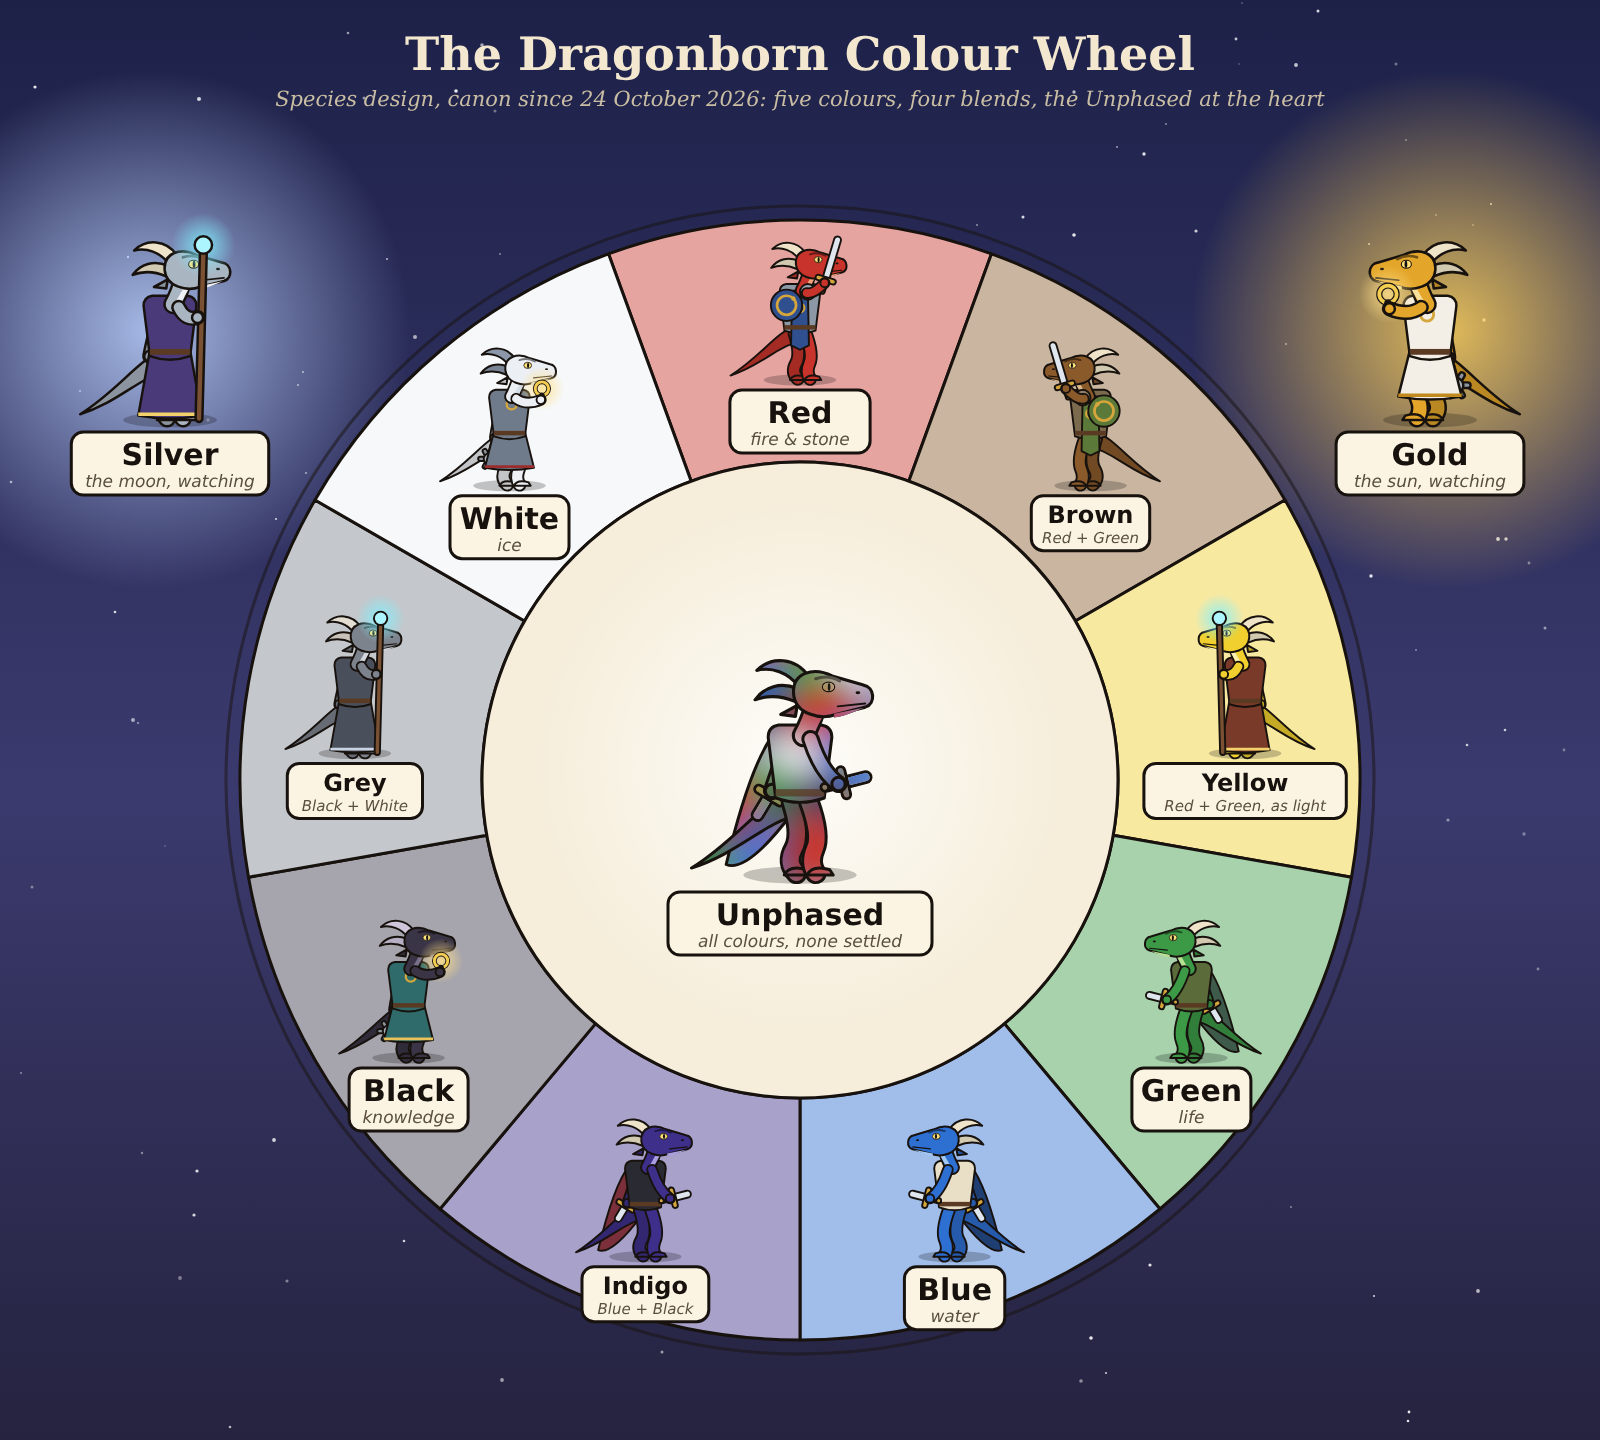
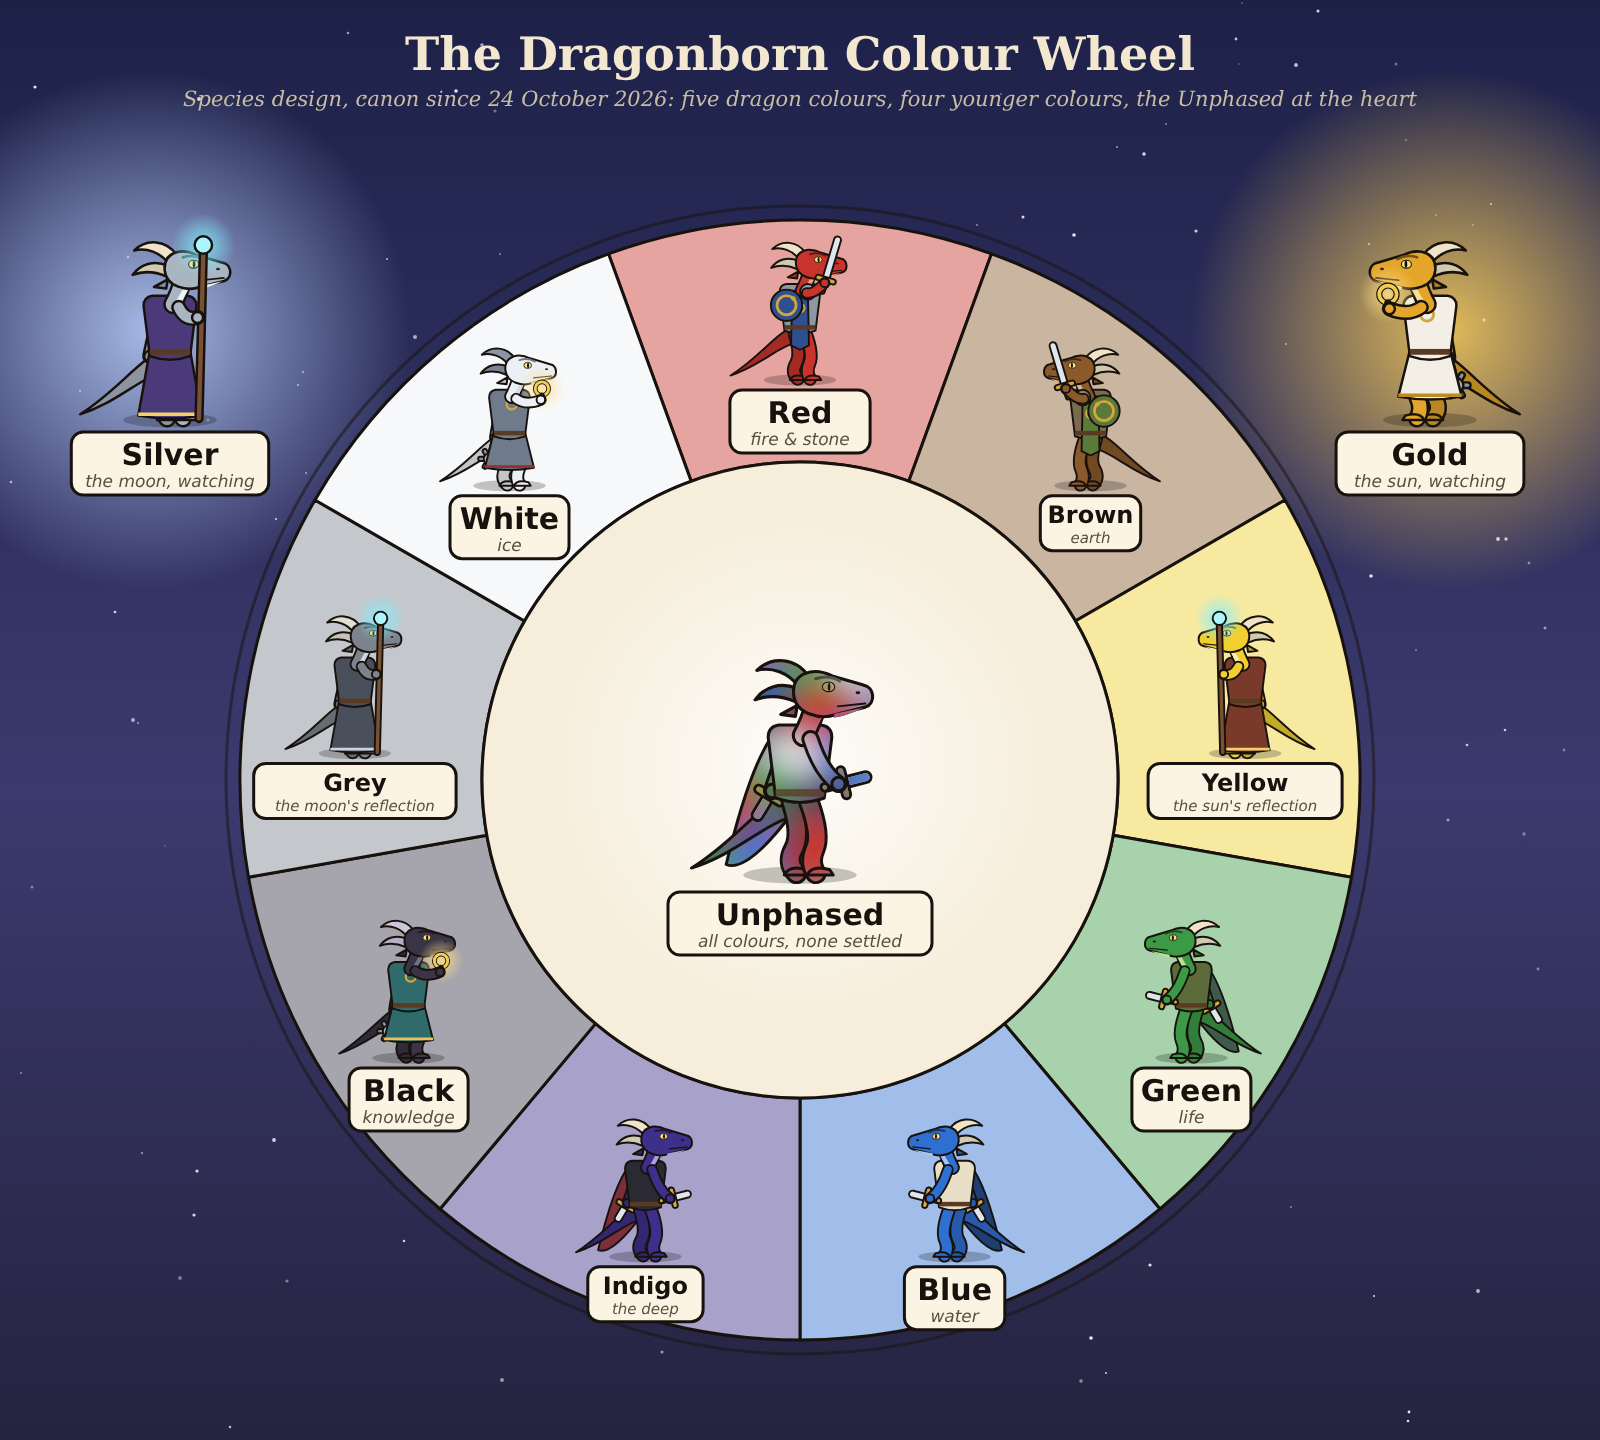
Remove the remaining blend and mixing wording
Approved by Troy. Removes it from:
- the opening of Character Origins;
- the setting bible's wheel, design and names entries;
- the plan;
- the colour-wheel art, which is re-rendered with new labels.
The four forms are now "the younger colours". The Quick Tour doc was
updated separately.

Claude-Session: https://claude.ai/code/session_01SSpuPJPjnE667hT5MjBdyY

diff --git a/art/cartoon/colour_wheel.py b/art/cartoon/colour_wheel.py
@@ -3,7 +3,7 @@
 Red, Brown, Yellow, Green, Blue, Indigo, Black, Grey, White around the wheel,
 the Unphased in the blank centre (a polychrome silhouette: every colour, none settled),
 and Gold and Silver outside the wheel, watching but not taking part.
-Saturday-Morning Bold. Blend colours are working values; see
+Saturday-Morning Bold. The younger colours' hex values are working values; see
 srd/04-character-origins/02-character-species.md."""
 import os, sys, math, random, subprocess
 HERE = os.path.dirname(os.path.abspath(__file__)); os.chdir(HERE); sys.path.insert(0, HERE)
@@ -16,12 +16,12 @@ W, H = 1600, 1440
 CX, CY = 800, 780
 R_IN, R_OUT, R_FIG = 318, 560, 452
 
-# Blend scale/belly colours (working values), mixed like paint (Yellow like light).
+# Scale/belly colours for the four younger colours (working values).
 party.DRAGONS.update({
-    'Brown':  ('#8a5a2b', '#ddb98c'),   # Red + Green, like paint
-    'Yellow': ('#f0cf2e', '#fbf0b0'),   # Red + Green, like light (earthly echo of Gold)
-    'Indigo': ('#3e2f8a', '#a99fe0'),   # Blue + Black
-    'Grey':   ('#7d838c', '#d3d6db'),   # Black + White (earthly echo of Silver)
+    'Brown':  ('#8a5a2b', '#ddb98c'),
+    'Yellow': ('#f0cf2e', '#fbf0b0'),   # earthly reflection of Gold
+    'Indigo': ('#3e2f8a', '#a99fe0'),
+    'Grey':   ('#7d838c', '#d3d6db'),   # earthly reflection of Silver
 })
 party.HORN.update({'Grey': '#e3ddd2'})
 
@@ -29,13 +29,13 @@ PRIMARY = {'Red', 'Green', 'Blue', 'Black', 'White'}
 # Clockwise from the top, in wheel order.
 WHEEL = [  # (form, label, sub, role, outfit, accent)
     ('Red',    'Red',    'fire & stone',   'fighter', '#8d98a6', '#2f4f8f'),
-    ('Brown',  'Brown',  'Red + Green',    'fighter', '#7c6a4e', '#5b7a3a'),
-    ('Yellow', 'Yellow', 'Red + Green, as light', 'wizard', '#7a3a2a', '#f2d16b'),
+    ('Brown',  'Brown',  'earth',          'fighter', '#7c6a4e', '#5b7a3a'),
+    ('Yellow', 'Yellow', 'the sun\'s reflection', 'wizard', '#7a3a2a', '#f2d16b'),
     ('Green',  'Green',  'life',           'rogue',   '#5c6b3a', '#3e5a4a'),
     ('Blue',   'Blue',   'water',          'rogue',   '#e9dfc6', '#1f3f73'),
-    ('Indigo', 'Indigo', 'Blue + Black',   'rogue',   '#2a2a33', '#7a2f3a'),
+    ('Indigo', 'Indigo', 'the deep',       'rogue',   '#2a2a33', '#7a2f3a'),
     ('Black',  'Black',  'knowledge',      'cleric',  '#2f6b6b', '#e8c35a'),
-    ('Grey',   'Grey',   'Black + White',  'wizard',  '#4a4f5c', '#c9d2e0'),
+    ('Grey',   'Grey',   'the moon\'s reflection', 'wizard',  '#4a4f5c', '#c9d2e0'),
     ('White',  'White',  'ice',            'cleric',  '#6f7b8a', '#9b2d2d'),
 ]
 STEP = 360 / len(WHEEL)
@@ -135,7 +135,7 @@ def build():
     o.append(f'<text x="{CX}" y="70" text-anchor="middle" font-family="DejaVu Serif" font-weight="bold" '
              f'font-size="46" fill="#f3e8cf">The Dragonborn Colour Wheel</text>')
     o.append(f'<text x="{CX}" y="106" text-anchor="middle" font-family="DejaVu Serif" font-style="italic" '
-             f'font-size="21" fill="#c9bda3">Species design, canon since 24 October 2026: five colours, four blends, the Unphased at the heart</text>')
+             f'font-size="21" fill="#c9bda3">Species design, canon since 24 October 2026: five dragon colours, four younger colours, the Unphased at the heart</text>')
     o.append('</svg>')
     return ''.join(o)
 

diff --git a/canon/setting-bible.md b/canon/setting-bible.md
@@ -50,21 +50,20 @@ When a PROPOSED item is confirmed or rejected, update its status here and add a 
 ### Unphased, Phased and phasing
 
 - **CANON.** All dragonborn are **born polychromatic**. Young dragonborn with no settled form are **Unphased**. This mirrors the myth: the young dragons are "of many forms and colours" until each finds what it loves and "their forms become fixed."
-- **CANON.** As they mature, dragonborn **settle into a final form** with an elemental affinity to one of the five surface dragons (Red, Green, Blue, Black, White) or to a **blend** of two neighbouring colours.
+- **CANON.** As they mature, dragonborn **settle into a final form** with an elemental affinity to one of the five surface dragons (Red, Green, Blue, Black, White) or to one of the **four younger colours**.
 - **CANON (2026-10-24; replaces the ten-form wheel). The colour wheel has nine forms:** **Red → Brown → Yellow → Green → Blue → Indigo → Black → Grey → White** → back to Red.
-  - 5 colours and 4 blends. Green and Blue sit side by side with no blend, as do White and Red.
-  - Blends **mix like paint, not light** (Red + Green is brown; Black + White is grey; Blue + Black is indigo). **Yellow** is the exception: the same parents as Brown, Red and Green, mixed like light, giving daylight instead of earth.
+  - Five dragon colours and four younger colours, each with its own origin (see `canon/brainstorm-epochs.md`). *(Revised 2026-11-04: no blends or colour mixing.)*
   - **Yellow and Grey** are the **closest earthly echoes of Gold (the sun) and Silver (the moon)**.
-  - **Order is irrelevant** within a blend. The wheel is a colour order chosen by rule of cool; it no longer defines which elements oppose which.
+  - The wheel is a colour order chosen by rule of cool; it no longer defines which elements oppose which.
   - **Retired:** the ten-form wheel's Marsh, Soil, Oxblood, Slate and Glacier. Soil's features passed to Brown and Slate's to Grey.
 - **CANON.** What triggers settling is **left to players' backstories**. It can be finding a calling (the myth's model), the influence of surroundings, or anything else they invent.
 - **CANON. Phasing:** something dramatic, traumatic or deadly can make a dragonborn **phase** from one form into another. They keep parts of their former personality and most of their memories. Rebirth and reincarnation are strong themes, echoing the myth, in which everything Azhi devoured "springs forth anew." Phasing **carries a penalty** so that players can't exploit it; the penalty is not yet designed.
 - **CANON.** There is **no return to Unphased** within the mechanics. The DM may allow it on rare occasions for narrative reasons.
 - **CANON. Gold and Silver dragonborn** are **super rare**. They are NPCs who can motivate plot, and there is no easy way for players to phase into them. Their species definitions should still exist, in case they become relevant. Reason (Troy): the Gold and Silver dragons generally don't take direct interest in the activities of those below.
-- **CANON (game design; revised 2026-10-24).** **Power budget: Unphased < every form.** All nine forms have **similar point totals** (about 17–18.5); blends are no longer held below the five colours.
+- **CANON (game design; revised 2026-10-24).** **Power budget: Unphased < every form.** All nine forms have **similar point totals** (about 17–18.5); the younger colours aren't held below the five.
   - **Unphased** characters are playable. They are young and flexible: they take **three personality traits and no affinity**, and may **swap one trait on each Long Rest** (2026-10-21). Their total bonuses are lower, to encourage players to find a phase and settle.
-  - **Blends** have **their own signature feature** rather than either parent's, plus picks that suit both.
-- **CANON (2026-10-24). Blend names:** **Brown**, **Yellow** (both Red + Green), **Indigo** (Blue + Black), **Grey** (Black + White). The hex colours used in art are working values. *(Replaces the 2026-10-21 adjacency-by-feeding-cycle rule and the names Marsh, Soil, Oxblood, Slate and Glacier.)*
+  - **The younger colours** have **their own signature features**.
+- **CANON (2026-10-24). The younger colours:** **Brown**, **Yellow**, **Indigo** and **Grey**. The hex colours used in art are working values. *(Replaces the 2026-10-21 adjacency-by-feeding-cycle rule and the names Marsh, Soil, Oxblood, Slate and Glacier.)*
 - **PROPOSED. Phasing penalty levers:**
   - The result is set by the event or rolled, not chosen. The SRD *Reincarnate* spell is a model.
   - A fading penalty, like *Raise Dead*'s, or Exhaustion.

diff --git a/PLAN.md b/PLAN.md
@@ -38,7 +38,7 @@ The goal is a setting-specific derivative of the D&D 5e SRD for the ring-world A
 
 ### 2a. Highest impact first *(proposed order)*
 
-- [ ] **Species → Dragonborn:** Unphased plus a nine-form colour wheel (5 colours, 4 blends; replaced the ten-form wheel 2026-10-24), plus rare Gold and Silver definitions for NPCs. Phasing rules with an anti-exploit penalty. Drafted in `srd/04-character-origins/02-character-species.md`. Open: the phasing breaking-point triggers only (the penalty is tentative as of 2026-11-04; see the mortality brainstorm). Gold and Silver are backburnered to the DM material (see the backlog); the trait benefits are canon (2026-10-30).
+- [ ] **Species → Dragonborn:** Unphased plus a nine-form colour wheel (5 dragon colours, 4 younger colours; replaced the ten-form wheel 2026-10-24), plus rare Gold and Silver definitions for NPCs. Phasing rules with an anti-exploit penalty. Drafted in `srd/04-character-origins/02-character-species.md`. Open: the phasing breaking-point triggers only (the penalty is tentative as of 2026-11-04; see the mortality brainstorm). Gold and Silver are backburnered to the DM material (see the backlog); the trait benefits are canon (2026-10-30).
 - [ ] **Character Creation** (after Character Origins is settled): revise Step 2 (species → colour choice; rebuild the Standard and Rare Languages tables) and the Trinkets table (swap other-species entries for Azhi flavour). Everything else is kept; see the tracker.
   - [ ] **Languages:** *(Troy, 2026-10-30)* tied to your region of origin, not to traits or colour (sidebar in Character Origins). Still to do: list Azhi's languages by region, in a "Geography of Azhi" section (see 2c, Gazetteer), and rebuild Step 2's language tables.
 - [ ] **Remove other species** from character options. Adjust any rule that assumes them (languages, ancestry feats, and so on).

diff --git a/srd/04-character-origins/02-character-species.md b/srd/04-character-origins/02-character-species.md
@@ -4,7 +4,7 @@ When you choose your character's species on Azhi, there is only one choice: your
 
 The dragonborn are the only people of Azhi. They live on the corpse of the great dragon Azhi, beneath the wandering light of the Gold and Silver dragons, and they are the descendants and followers of the seven young dragons of the myth. No other sapient peoples share the world with them.
 
-Every dragonborn is born polychromatic, scales shifting through many colours. As they mature, most settle into a form with an elemental affinity to the five surface dragons, Red, Green, Blue, Black and White, or to a blend of two of them. A dragonborn's form isn't inherited; it comes from the life they lead. Siblings may settle into different colours, and a Red dragonborn raised in a Blue harbour town is unremarkable.
+Every dragonborn is born polychromatic, scales shifting through many colours. As they mature, most settle into a form with an elemental affinity to the five surface dragons, Red, Green, Blue, Black and White, or to one of the four younger colours. A dragonborn's form isn't inherited; it comes from the life they lead. Siblings may settle into different colours, and a Red dragonborn raised in a Blue harbour town is unremarkable.
 
 No colour is greater than another. The colours differ as the elements do, and the quarrels between them are disputes over policy, not claims of superiority.
 

diff --git a/canon/decisions.md b/canon/decisions.md
@@ -11,6 +11,7 @@ Newest first. One line per decision: what was decided, and why if a reason was g
 - **Phasing penalty, tentative** (Troy): phase shock (−4 to D20 Tests, easing by 1 per Long Rest); keep at least one trait; the new form set by circumstance, the DM or a roll; catatonia during the change; a first settling is not a phase. The triggers stay open.
 - **The Unphased stay as they are** (Troy). It's a playstyle choice: a player either has fun swapping traits or gets bored and settles into a form.
 - **"Epoch 7" removed** (Troy) from the notes. The present is epoch 6.
+- **No blends anywhere** (Troy): all blend and mixing wording removed from Character Origins' opening, the setting bible, the plan, the colour-wheel art (new labels: earth, the sun's reflection, the deep, the moon's reflection) and the "Azhi: A Quick Tour" doc. The four are now "the younger colours".
 - **Giant Eagle, Elk and Owl** (Troy): they become Beasts, and nothing else in their stat blocks changes, including the Giant Owl's spells. (Monster change B1; knock-ons a–e rejected.)
 - **Magic in epoch 2** (Troy): no dragon taught magic until Red and Blue switched sides in the machine war, and the dragons taught only up to level 5. Still PROPOSED lore, in `canon/brainstorm-epochs.md`, with the other answers from the drive.
 
